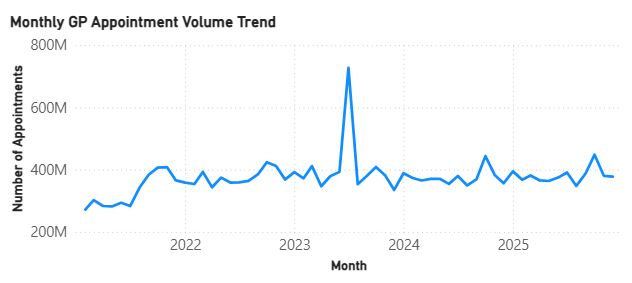
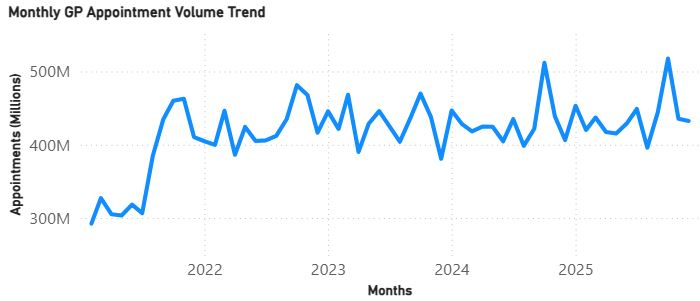
Updating chart

diff --git a/README.md b/README.md
@@ -62,11 +62,11 @@ nhs-gp-analysis/
 └── README.md
 ```
 
-## Visualisations
+# Visualisations
 
 ## 1. Appointments Trend Analysis
 
-# Key insights
+## Key insights
 - Appointment volumes increased significantly between 2021 and 2023 
 - A notable demand spike in 2023 suggests periods of heightened service pressure 
 - Demand stabilises after 2023 but remains consistently high
@@ -76,12 +76,12 @@ nhs-gp-analysis/
 
 ## 2. Distribution of GP Appointments by waiting time
 
-# Key observation
+## Key observation
 - Majority of appointments occur on the same day or within 7 days 
 - This suggests strong access to urgent primary care services
 - A smaller propordtion fall into longer waiting categories (15+ ays).
 
-![Distribution of GP appointments by waiting time in days.](images/appointment_by_waiting_time.JPG)
+![Appointments by waiting time](images/appointments_by_waiting_time.JPG)
 
 **Skills Demonstrated**
 
